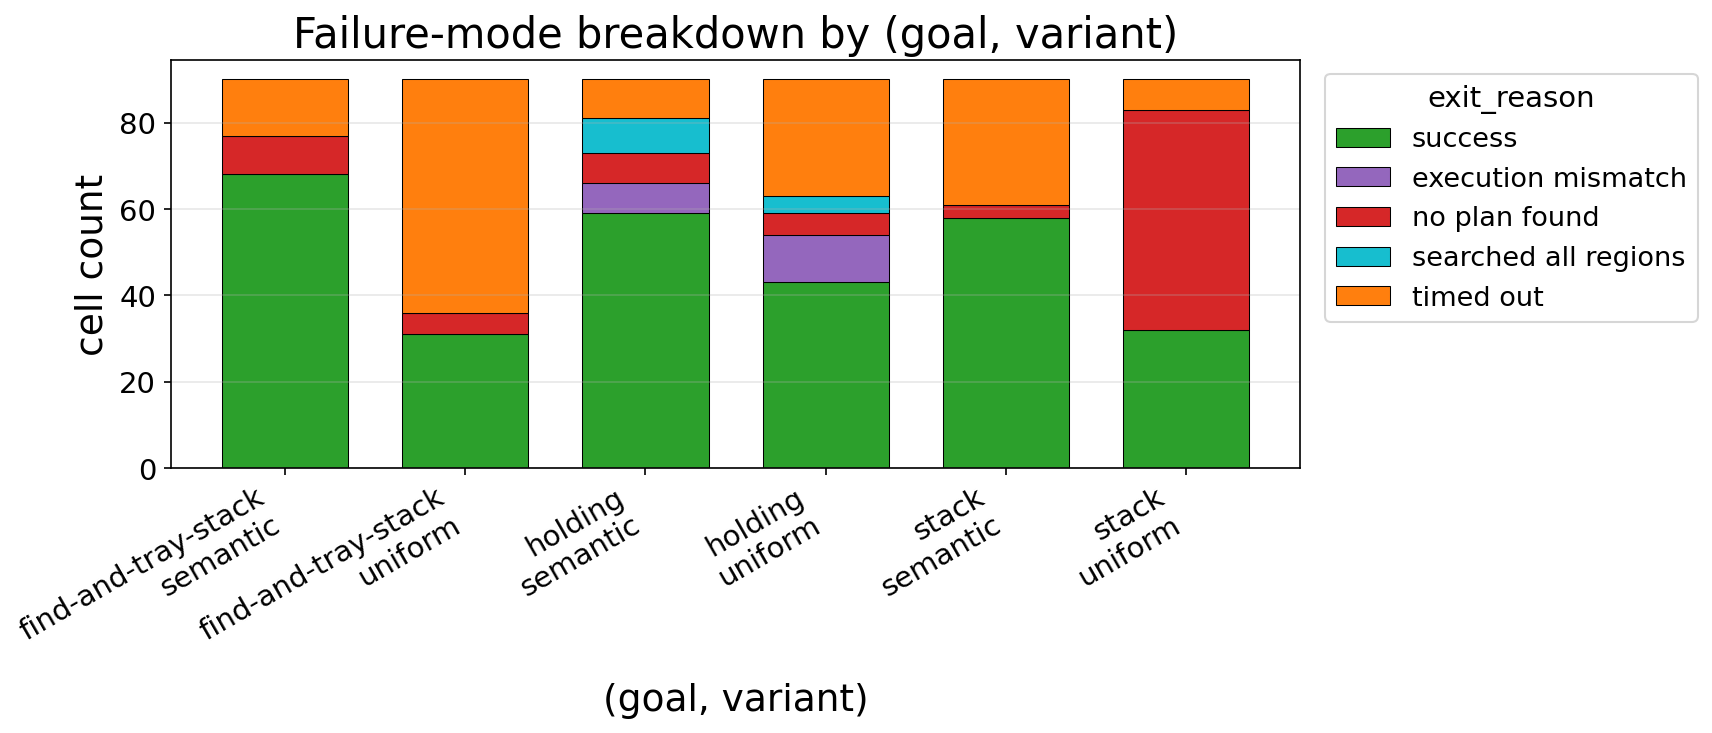
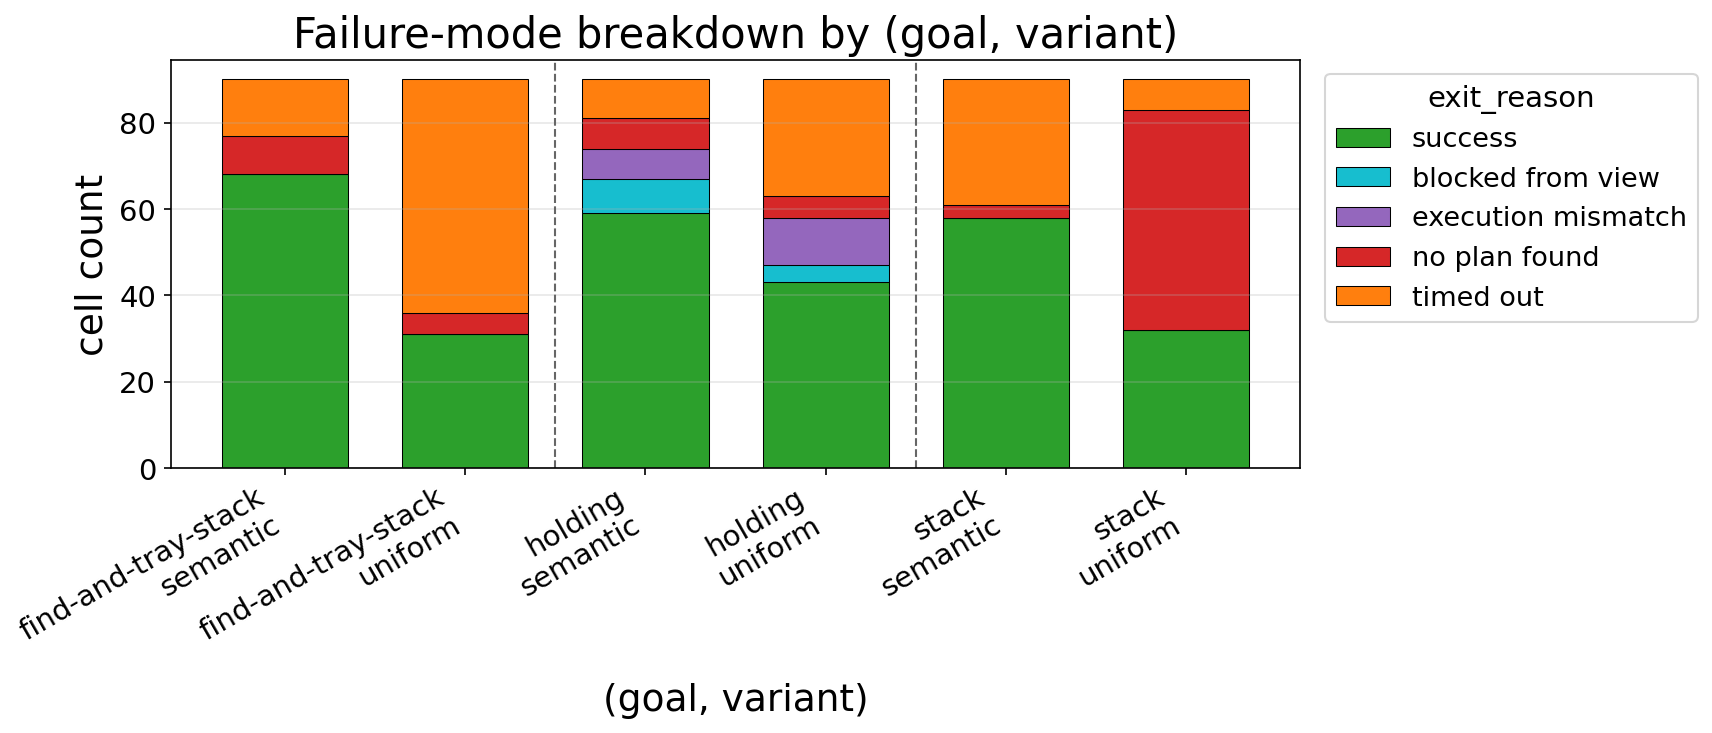
thesis/eval: failure-mode graph polish + honest "blocked from view" (#302/#308)
- plotter: dashed vertical separators at goal boundaries so each goal's
  (semantic, uniform) pair reads as a group (plot_failure_modes, general).
- relabel all_searched -> "blocked from view": it is a FALSE NEGATIVE -- the
  target's region stayed occluded from the fixed camera, so the loop gave up
  without ever observing it (not a confirmed absence). §5.2/§5.4 + §4.6 comment
  reworded to say so; cross-ref §4.6. Regenerated detailed PNG (read visually).

Changed region(s): [[0.7739, 0.2101, 0.9907, 0.3602], [0.3405, 0.1501, 0.5263, 0.3302], [0.4334, 0.3602, 0.5263, 0.3902]]

diff --git a/thesis/chapters/results.tex b/thesis/chapters/results.tex
@@ -91,7 +91,7 @@ For each cell we record:
     \item \textbf{Planning time}: total wall-clock time spent inside PDDLStream calls, summed across replans; this is the planning-time figure reported per goal in the headline results. It is distinct from the \emph{end-to-end} per-episode wall-clock used in the TAMPURA comparison (\cref{subsec:tampura}), which additionally includes simulated execution and replanning: on holding that overhead adds about ten seconds (planning 134.30\,s versus end-to-end 144.4\,s), so the two are close but not identical.
     \item \textbf{Replan count}: how many times the planner was re-invoked in the sense-plan-act loop before terminating.
     \item \textbf{Representation size}: the Boxel set decomposed into \texttt{OBJECT}, \texttt{SHADOW}, and \texttt{FREE\_SPACE} cells, and the number of grounded facts in PDDLStream's initial state. These two capture the per-cell cost of the partitioning strategy independently of planner choice.
-    \item \textbf{Failure mode}: when a cell does not succeed, the reason it stopped. We distinguish \emph{timed out} (the planning budget was exhausted), \emph{no plan found} (the planner returned no plan), \emph{searched all regions} (every reachable shadow was sensed without locating the target), and \emph{execution mismatch} (a manipulation action left the world in a state the plan did not expect). A further give-up, a failed object release after repeated retries, is possible but did not occur in these runs.
+    \item \textbf{Failure mode}: when a cell does not succeed, the reason it stopped. We distinguish \emph{timed out} (the planning budget was exhausted), \emph{no plan found} (the planner returned no plan), \emph{blocked from view} (a false negative: the search ran out of unknown regions to sense, but only because the target's region stayed blocked from the fixed camera, so its absence was never actually observed; \cref{sec:sense-plan-act}), and \emph{execution mismatch} (a manipulation action left the world in a state the plan did not expect). A further give-up, a failed object release after repeated retries, is possible but did not occur in these runs.
 \end{itemize}
 Aggregate means in this chapter are taken either over all $n_\text{cells}$ or, for quantities that are only defined on cells that produced a snapshot (notably mean initial-state facts and mean replan count), over the subset of cells with non-null values. These two denominators differ by about 18\,\% of cells---those that timed out before any planner state was recorded.
 
@@ -230,12 +230,12 @@ The partition shrinks as the leaf is coarsened above auto --- the free-space Box
 \subsection{Failure Modes}
 \label{subsec:failure-modes}
 
-\Cref{fig:failure-modes} stacks the exit reasons across the 6 $(\text{goal}, \text{variant})$ cells. \emph{timed out} is the most common failure overall, dominating on find-and-tray-stack (\texttt{uniform} most of all) and on \texttt{stack} \texttt{semantic}, consistent with the lower success rates there rather than an inability to plan. \emph{no plan found} is the main failure on \texttt{stack} \texttt{uniform}, whose much larger grounded domain the planner often cannot solve within the budget. The two holding-specific modes, \emph{execution mismatch} (a manipulation left the world off-plan) and \emph{searched all regions} (every shadow sensed without finding the target), appear only on \texttt{holding}, where the target must actually be grasped and the search can be exhausted.
+\Cref{fig:failure-modes} stacks the exit reasons across the 6 $(\text{goal}, \text{variant})$ cells. \emph{timed out} is the most common failure overall, dominating on find-and-tray-stack (\texttt{uniform} most of all) and on \texttt{stack} \texttt{semantic}, consistent with the lower success rates there rather than an inability to plan. \emph{no plan found} is the main failure on \texttt{stack} \texttt{uniform}, whose much larger grounded domain the planner often cannot solve within the budget. The two holding-specific modes, \emph{execution mismatch} (a manipulation left the world off-plan) and \emph{blocked from view} (the target sat in a region the fixed camera could never see, so the search gave up without observing it---a false negative rather than a confirmed absence), appear only on \texttt{holding}, where the target must actually be grasped and a blocked region cannot be resolved.
 
 \begin{figure}[H]
     \centering
     \includegraphics[width=\textwidth]{failure_modes_sem_uni_detailed.png}
-    \caption{Stacked exit-reason breakdown per $(\text{goal}, \text{variant})$ for the \texttt{semantic} and \texttt{uniform} variants (90 cells each). Beyond \emph{success}, a cell can end in \emph{timed out} (the planning budget ran out), \emph{no plan found} (the planner returned nothing), \emph{searched all regions} (every reachable shadow was sensed without finding the target), or \emph{execution mismatch} (a manipulation action left the world in a state the plan did not expect). \emph{timed out} is the largest failure mode overall; \emph{no plan found} dominates \texttt{stack} \texttt{uniform}; the holding-only modes (\emph{searched all regions}, \emph{execution mismatch}) reflect that \texttt{holding} requires actually grasping the target. The legend's \emph{exit\_reason} groups these outcomes.}
+    \caption{Stacked exit-reason breakdown per $(\text{goal}, \text{variant})$ for the \texttt{semantic} and \texttt{uniform} variants (90 cells each). Beyond \emph{success}, a cell can end in \emph{timed out} (the planning budget ran out), \emph{no plan found} (the planner returned nothing), \emph{blocked from view} (a false negative: the target's region stayed occluded from the fixed camera, so the search gave up without ever observing it), or \emph{execution mismatch} (a manipulation action left the world in a state the plan did not expect). \emph{timed out} is the largest failure mode overall; \emph{no plan found} dominates \texttt{stack} \texttt{uniform}; the holding-only modes (\emph{blocked from view}, \emph{execution mismatch}) reflect that \texttt{holding} requires actually grasping the target. The legend's \emph{exit\_reason} groups these outcomes.}
     \label{fig:failure-modes}
 \end{figure}
 

diff --git a/thesis/chapters/methods.tex b/thesis/chapters/methods.tex
@@ -184,7 +184,7 @@ The Boxel partition, the Know-If belief (\cref{sec:kif_belief}), and the PDDLStr
   \State $q \gets$ home configuration
   \While{$g$ is not satisfied \textbf{and} the elapsed time is below $T$}
     \If{$g$ is a search goal \textbf{and} no \texttt{unknown} shadow remains}
-      \State \Return target-not-found \Comment{every reachable region searched}
+      \State \Return target-not-found \Comment{nothing left to sense; some regions may have stayed blocked}
     \EndIf
     \If{the partition is stale}\Comment{a placement consumed a cell, or a new occluder appeared}
       \State re-boxelize the free space \Comment{octree split + convex merge, diffed}

diff --git a/eval_plotter.py b/eval_plotter.py
@@ -1301,6 +1301,12 @@ def plot_failure_modes(grouped: Dict[tuple, Dict[str, int]],
                label=reason)
         bottoms = [b + c for b, c in zip(bottoms, counts)]
 
+    # Author request 2026-06-09 — dashed vertical separators at goal
+    # boundaries so each goal's (semantic, uniform) pair reads as a group.
+    for i in range(1, len(keys)):
+        if keys[i][0] != keys[i - 1][0]:
+            ax.axvline(i - 0.5, color="0.4", linewidth=1.0, linestyle="--")
+
     ax.set_xticks(xs)
     ax.set_xticklabels(labels, fontsize=14, rotation=30, ha="right")
     ax.tick_params(axis="y", labelsize=14)

diff --git a/tools/regen_failure_modes_sem_uni.py b/tools/regen_failure_modes_sem_uni.py
@@ -54,7 +54,7 @@ ep.plot_failure_modes(
 DETAIL = {
     "planner_failed":   "no plan found",
     "timeout":          "timed out",
-    "all_searched":     "searched all regions",
+    "all_searched":     "blocked from view",
     "drop_failed":      "manipulation failed",
     "physics_mismatch": "execution mismatch",
 }
